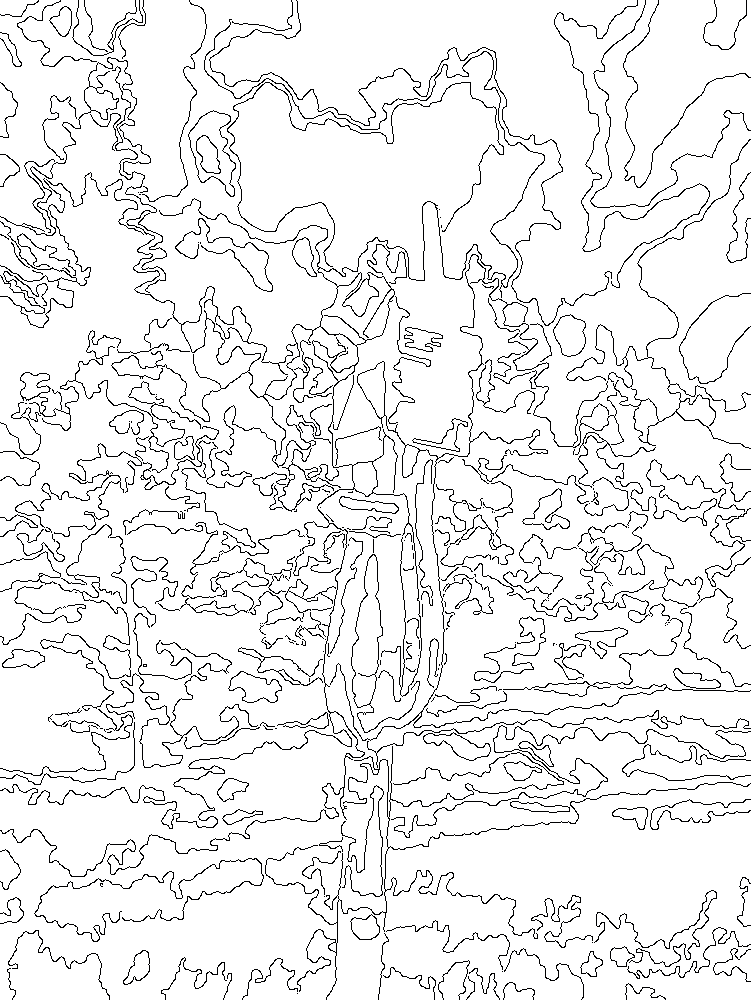
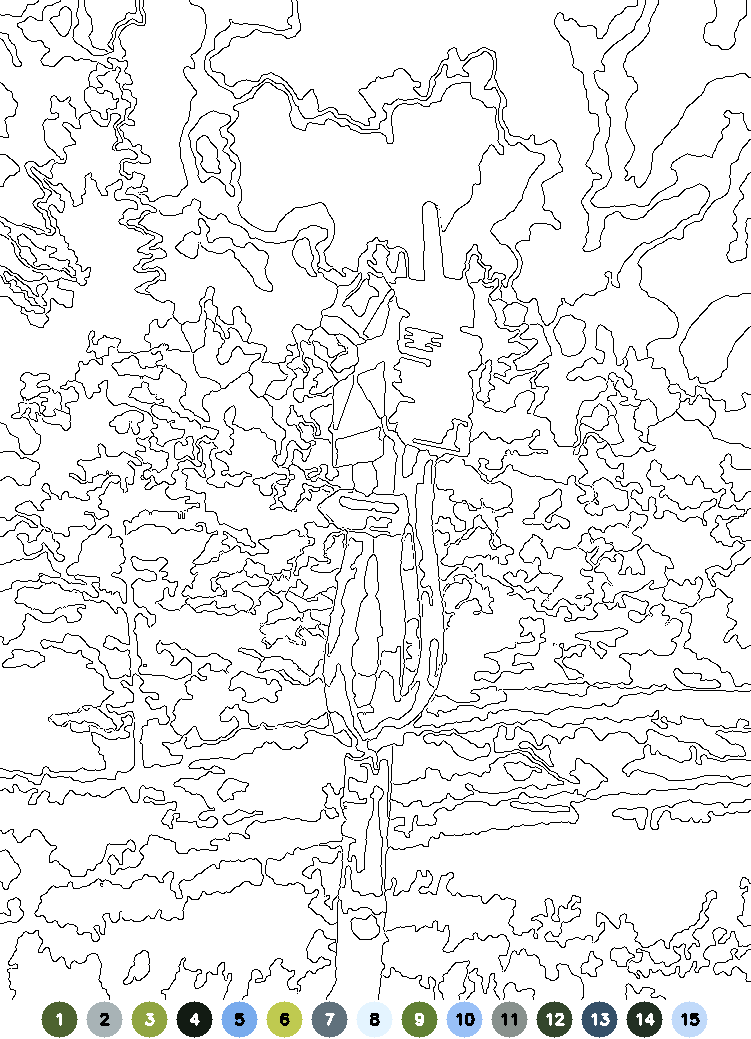
wip

diff --git a/pbn-gen.py b/pbn-gen.py
@@ -220,7 +220,7 @@ def fill_unmasked(image: Img, mask: Mask, colors: Colors, color_mode: ColorMode)
     """
 
     if color_mode == ColorMode.GRAYSCALE:
-        inverse_color_masks = [image != color for color in colors]
+        inverse_color_masks = [(image != color).astype(np.uint8) for color in colors]
     else:
         inverse_color_masks = [np.any(image != color, axis=-1).astype(np.uint8)
                                for color in colors]
@@ -233,6 +233,7 @@ def fill_unmasked(image: Img, mask: Mask, colors: Colors, color_mode: ColorMode)
     # closest color = color with the smallest color distance for each pixel
     closest_colors = colors[np.argmin(color_distances, axis=0)]
     result = image.copy()
+    closest_colors = closest_colors.reshape(image.shape)
     result[inverse_mask] = closest_colors[inverse_mask]
     # debug_show_image(result, color_mode) # debug
     return result
@@ -351,7 +352,7 @@ def add_palette(image: Img, colors: Colors) -> Img:
 
         Args:
             image (Img): The image to add the color palette to, in BGR.
-            colors (Colors): The colors in the image.
+            colors (Colors): The colors in the image, in BGR.
 
         Returns:
             Img: The image with the color palette added to the bottom.
@@ -368,14 +369,18 @@ def add_palette(image: Img, colors: Colors) -> Img:
     height = int(radius * 2 * (1 + REL_MARGIN_TOP_BOTTOM))
     left = int(image.shape[1] * REL_PADDING_LEFT_RIGHT)
     middle_y = image.shape[0] + height // 2
+
     new_img = np.ones((image.shape[0] + height, *image.shape[1:]), dtype=np.uint8) * 255
+    new_img[:image.shape[0]] = image
+
     for i in range(len(colors)):
         x = left + int((i + 0.5) * width_per_color)
-        print(tuple(colors[i]))
         cv.circle(new_img, (x, middle_y), radius, tuple(colors[i].tolist()), -1)
         num_offset = int(NUM_SIZE * 10)
+        is_bg_light = np.mean(colors[i]) > 128
+        text_color = (0, 0, 0) if is_bg_light else (255, 255, 255)
         cv.putText(new_img, str(i + 1), (x - num_offset * len(str(i + 1)), middle_y + num_offset),
-                   cv.FONT_HERSHEY_SIMPLEX, NUM_SIZE, (0, 0, 0), 2)
+                   cv.FONT_HERSHEY_SIMPLEX, NUM_SIZE, text_color, 2)
 
     return new_img
 
@@ -529,7 +534,7 @@ def _arg_parser() -> ArgumentParser:
     parser.add_argument('-n', '--numbers',
                         action="store_true",
                         required=False, default=False,
-                        help='Have numbers in the output image. This feature is currently broken'
+                        help='Have numbers in the output image. This feature is currently broken!'
     )
     parser.add_argument('-s', '--seed',
                         type=int, required=False,
@@ -584,16 +589,14 @@ def main() -> None:
         if args.numbers:
             print('WARNING: The number placement algorithm is broken in this version and using --numbers is not recommended, the output will probably be incorrect')
             put_numbers(colored_image, bgr_image, colors, color_mode)
-        print(colors)
         colors_array = np.asarray(colors, dtype=np.uint8)
         if color_mode == ColorMode.GRAYSCALE:
             colors_array = colors_array.reshape(1, -1)
         else:
             colors_array = colors_array.reshape(1, -1, 3)
         colors_bgr = cvt_to_bgr(colors_array, color_mode)
-        print(colors_bgr[0])
         bgr_image = add_palette(bgr_image, colors_bgr[0].copy())
-        debug_show_image(bgr_image, ColorMode.BGR)
+        # debug_show_image(bgr_image, ColorMode.BGR)
         save_image(args.output, bgr_image, ColorMode.BGR)
 
 

diff --git a/README.md b/README.md
@@ -39,8 +39,8 @@ It is then ready to be run with Python.
 ## Usage
 
 ```none
-usage: pbn-gen.py [-h] -o OUTPUT [-r WIDTH HEIGHT] [-c {BGR,HSL,HSV,LAB,GRAYSCALE}] [-k COLOR_PALETTE_SIZE] [-m MIN_CELL_SIZE] [-M MAX_CELLS] [-O]
-                  [-f] [-n] [-s SEED]
+usage: pbn-gen.py [-h] -o OUTPUT [-r WIDTH HEIGHT] [-c {BGR,HSL,HSV,LAB,GRAYSCALE}] [-k COLOR_PALETTE_SIZE] [-m MIN_CELL_SIZE]
+                  [-M MAX_CELLS] [-O] [-f] [-n] [-s SEED]
                   input [input ...]
 
 positional arguments:
@@ -57,10 +57,24 @@ options:
   -k COLOR_PALETTE_SIZE, --color-palette-size COLOR_PALETTE_SIZE
                         Number of colors used in the output. Defaults to 10.
   -m MIN_CELL_SIZE, --min-cell-size MIN_CELL_SIZE
-                        Minimum size of a cell in the output image in pixels Defaults to 200. If set to 0, all cells are naturally kept.
+                        Minimum size of a cell in the output image in pixels Defaults to 200. If set to 0, all cells are naturally    
+                        kept.
   -M MAX_CELLS, --max-cells MAX_CELLS
-                        Maximum number of cells in the output image. Defaults to 250. If set to 0 or a negative number, no limit is imposed.
+                        Maximum number of cells in the output image. Defaults to 250. If set to 0 or a negative number, no limit is   
+                        imposed.
   -O, --no-outline      Do not have outlines in the output image.
   -f, --fill            Fill the output image with the colors.
-  -n, --numbers         Have numbers in the output image. This feature is currently broken
-  -s SEED, --seed SEED  Seed for the color clustering algorithm. If not provided, a random seed is used.```
+  -n, --numbers         Have numbers in the output image. This feature is currently broken!
+  -s SEED, --seed SEED  Seed for the color clustering algorithm. If not provided, a random seed is used.
+```
+
+## Examples
+
+Input image:
+![Input image](images/input.jpg)
+
+Output image with outlines and color fill:
+![Output image with fill](images/output_filled.png)
+
+Output image with just outlines:
+![Output image](images/output.png)
